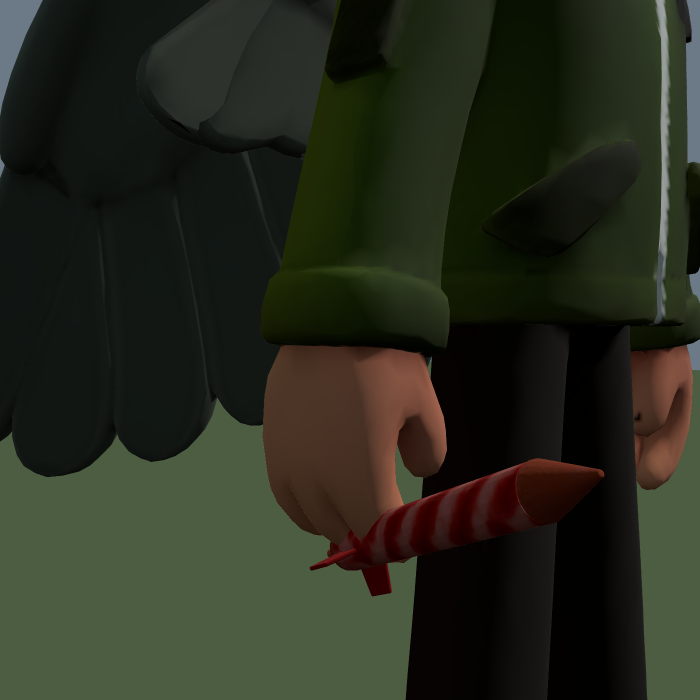
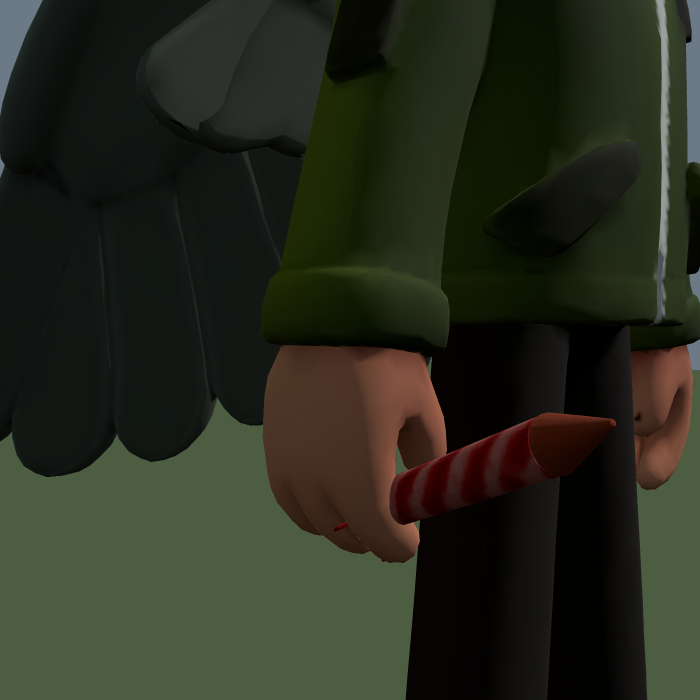
Put it in the palm
It was running through the curled fingers, not the palm. Down 0.15 of the
fist's height from its middle and 0.10 of its width inward, which puts the tube
across the palm with the fingers closed over it: through the hand at palm level
from the side, coming out of the palm from the front, tail under the fingers.
24% of the fist inside the tube; gripcheck passes; checked at six cameras.

Claude-Session: https://claude.ai/code/session_01AbPj1ecgWZX5NRERgq23EA

Changed region(s): [[0.45, 0.57, 0.87, 0.87]]

diff --git a/src/player/avatar.js b/src/player/avatar.js
@@ -25,14 +25,14 @@ const BUILT_FIST = 0.052;
  * fingertips to wrist. A closed hand holds a stick through the ring its curled
  * fingers make, which is above the middle of the fist.
  */
-const GRIP_RISE = -0.35;
+const GRIP_RISE = -0.15;
 /**
  * And how much wider than the fist the tube is drawn, so the fingers close
  * round something rather than beside it.
  */
 const GRIP_FILL = 1.0;
 /** How far out of the fist it sits, as a share of the fist's width. */
-const GRIP_OUT = 0.0;
+const GRIP_OUT = -0.10;
 /** How far behind the fist's axis it sits, as a share of the fist's width. */
 const GRIP_BACK = 0.0;
 /** White, for lightening the slot colour before it tints a photograph. */
